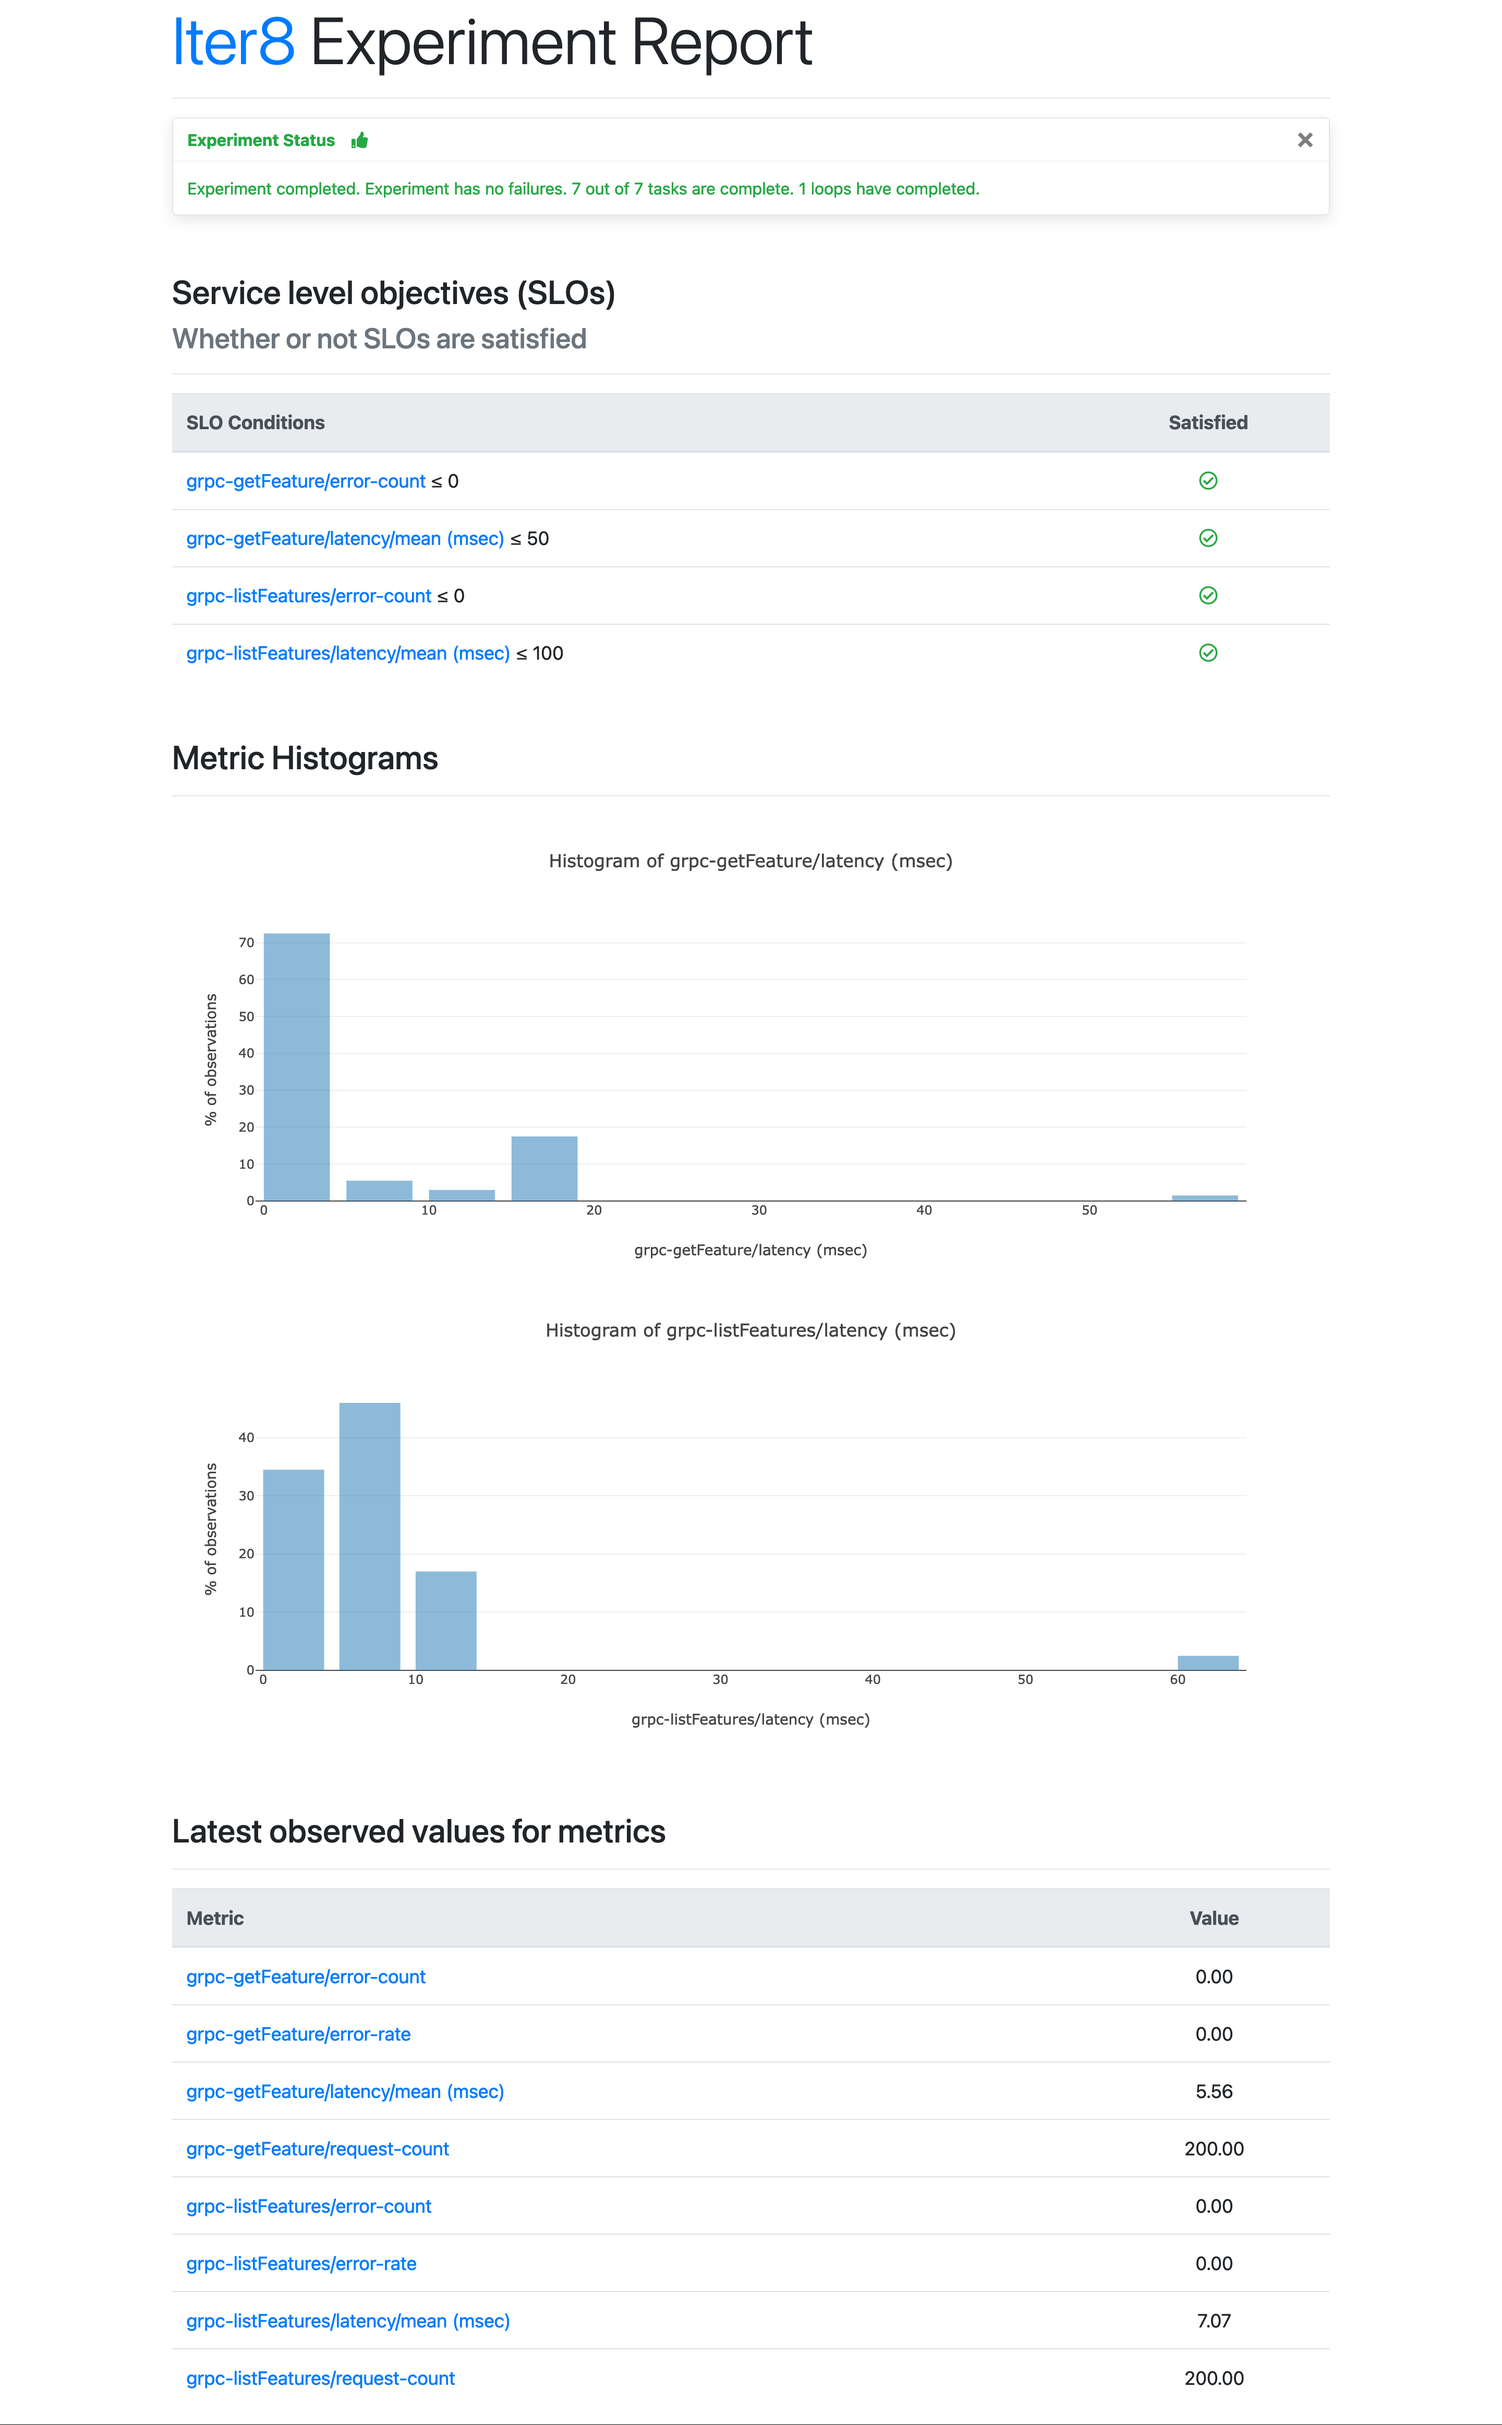
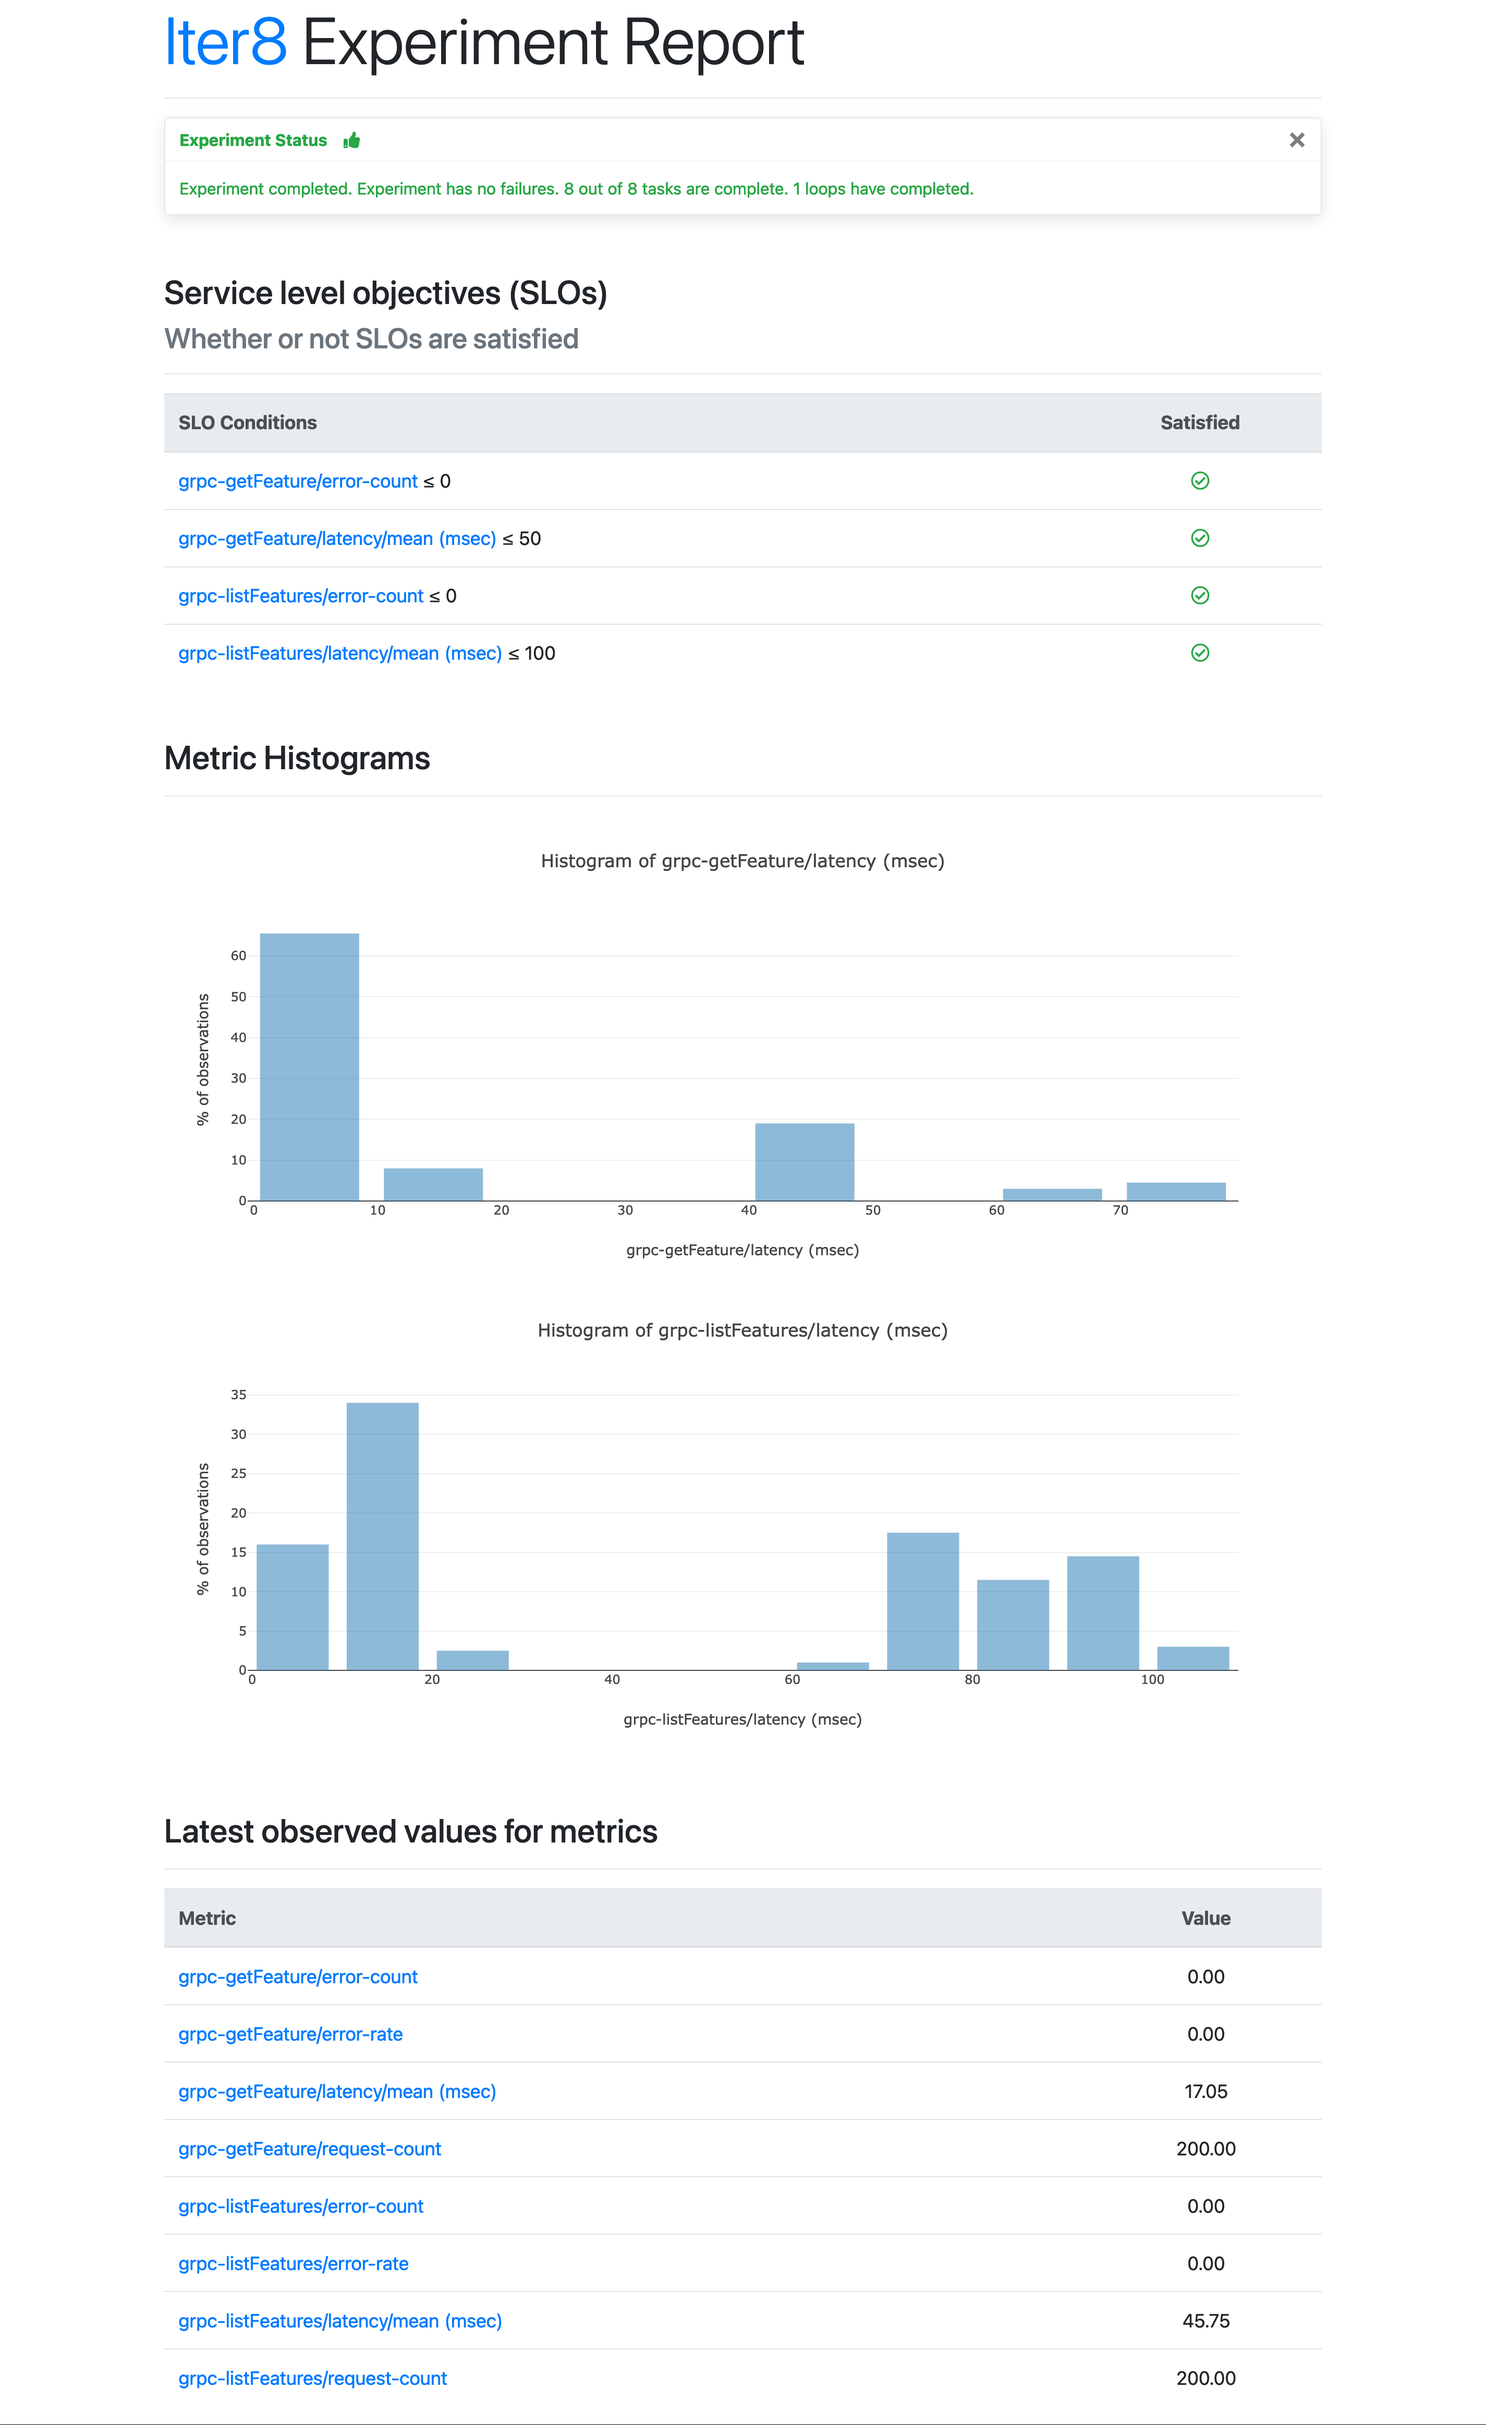
Update after fixing grpc

diff --git a/README.md b/README.md
@@ -64,7 +64,7 @@ helm install autox autox --repo https://iter8-tools.github.io/hub/ --version 0.1
 --set groups.httpbin.specs.iter8.values.ready.service=httpbin \
 --set groups.httpbin.specs.iter8.values.ready.timeout=60s \
 --set groups.httpbin.specs.iter8.values.http.numRequests=200 \
---set groups.httpbin.specs.iter8.values.http.warmupDuration=5s \
+--set groups.httpbin.specs.iter8.values.http.warmupNumRequests=50 \
 --set groups.httpbin.specs.iter8.values.http.endpoints.get.url=http://httpbin.default/get \
 --set groups.httpbin.specs.iter8.values.http.endpoints.getAnything.url=http://httpbin.default/anything \
 --set groups.httpbin.specs.iter8.values.http.endpoints.post.url=http://httpbin.default/post \
@@ -75,7 +75,7 @@ helm install autox autox --repo https://iter8-tools.github.io/hub/ --version 0.1
 --set groups.httpbin.specs.iter8.values.assess.SLOs.upper.http-getAnything/latency-mean=75 \
 --set groups.httpbin.specs.iter8.values.assess.SLOs.upper.http-post/error-count=0 \
 --set groups.httpbin.specs.iter8.values.assess.SLOs.upper.http-post/latency-mean=100 \
---set groups.httpbin.specs.iter8.version=0.13.4 \
+--set groups.httpbin.specs.iter8.version=0.13.5 \
 --set groups.httpbin.specs.iter8.values.runner=job
 ```
 
@@ -143,42 +143,42 @@ Latest observed values for metrics:
   -------                                | -----
   http-get/error-count                   | 0.00
   http-get/error-rate                    | 0.00
-  http-get/latency-max (msec)            | 67.72
-  http-get/latency-mean (msec)           | 7.10
-  http-get/latency-min (msec)            | 1.34
-  http-get/latency-p50 (msec)            | 5.94
-  http-get/latency-p75 (msec)            | 8.47
-  http-get/latency-p90 (msec)            | 11.10
-  http-get/latency-p95 (msec)            | 12.67
-  http-get/latency-p99 (msec)            | 62.57
-  http-get/latency-p99.9 (msec)          | 67.20
-  http-get/latency-stddev (msec)         | 7.68
+  http-get/latency-max (msec)            | 20.67
+  http-get/latency-mean (msec)           | 5.65
+  http-get/latency-min (msec)            | 1.23
+  http-get/latency-p50 (msec)            | 4.85
+  http-get/latency-p75 (msec)            | 7.40
+  http-get/latency-p90 (msec)            | 10.12
+  http-get/latency-p95 (msec)            | 12.40
+  http-get/latency-p99 (msec)            | 19.00
+  http-get/latency-p99.9 (msec)          | 20.53
+  http-get/latency-stddev (msec)         | 3.47
   http-get/request-count                 | 200.00
   http-getAnything/error-count           | 0.00
   http-getAnything/error-rate            | 0.00
-  http-getAnything/latency-max (msec)    | 20.73
-  http-getAnything/latency-mean (msec)   | 5.90
-  http-getAnything/latency-min (msec)    | 1.29
-  http-getAnything/latency-p50 (msec)    | 5.52
-  http-getAnything/latency-p75 (msec)    | 7.94
-  http-getAnything/latency-p90 (msec)    | 9.93
-  http-getAnything/latency-p95 (msec)    | 11.38
-  http-getAnything/latency-p99 (msec)    | 14.00
-  http-getAnything/latency-p99.9 (msec)  | 20.58
-  http-getAnything/latency-stddev (msec) | 3.08
+  http-getAnything/latency-max (msec)    | 71.20
+  http-getAnything/latency-mean (msec)   | 7.09
+  http-getAnything/latency-min (msec)    | 1.23
+  http-getAnything/latency-p50 (msec)    | 5.10
+  http-getAnything/latency-p75 (msec)    | 7.56
+  http-getAnything/latency-p90 (msec)    | 11.50
+  http-getAnything/latency-p95 (msec)    | 18.00
+  http-getAnything/latency-p99 (msec)    | 70.00
+  http-getAnything/latency-p99.9 (msec)  | 71.08
+  http-getAnything/latency-stddev (msec) | 8.88
   http-getAnything/request-count         | 200.00
   http-post/error-count                  | 0.00
   http-post/error-rate                   | 0.00
-  http-post/latency-max (msec)           | 69.14
-  http-post/latency-mean (msec)          | 6.32
-  http-post/latency-min (msec)           | 1.32
-  http-post/latency-p50 (msec)           | 5.14
-  http-post/latency-p75 (msec)           | 7.53
-  http-post/latency-p90 (msec)           | 10.33
-  http-post/latency-p95 (msec)           | 12.22
-  http-post/latency-p99 (msec)           | 14.00
-  http-post/latency-p99.9 (msec)         | 68.23
-  http-post/latency-stddev (msec)        | 6.89
+  http-post/latency-max (msec)           | 75.67
+  http-post/latency-mean (msec)          | 6.02
+  http-post/latency-min (msec)           | 1.36
+  http-post/latency-p50 (msec)           | 4.78
+  http-post/latency-p75 (msec)           | 7.10
+  http-post/latency-p90 (msec)           | 10.00
+  http-post/latency-p95 (msec)           | 11.33
+  http-post/latency-p99 (msec)           | 16.00
+  http-post/latency-p99.9 (msec)         | 75.10
+  http-post/latency-stddev (msec)        | 7.54
   http-post/request-count                | 200.00 -->
 
 You can also produce an HTML report that you can view in the browser.
@@ -258,7 +258,7 @@ helm install autox autox --repo https://iter8-tools.github.io/hub/ --version 0.1
 --set groups.routeguide.specs.iter8.values.ready.timeout=60s \
 --set groups.routeguide.specs.iter8.values.grpc.host=routeguide.default:50051 \
 --set groups.routeguide.specs.iter8.values.grpc.protoURL=https://raw.githubusercontent.com/iter8-tools/docs/v0.13.13/samples/route_guide/routeguide/route_guide.proto \
---set groups.routeguide.specs.iter8.values.grpc.warmupDuration=5s \
+--set groups.routeguide.specs.iter8.values.grpc.warmupNumRequests=50 \
 --set groups.routeguide.specs.iter8.values.grpc.endpoints.getFeature.call=routeguide.RouteGuide.GetFeature \
 --set groups.routeguide.specs.iter8.values.grpc.endpoints.getFeature.dataURL=https://raw.githubusercontent.com/iter8-tools/docs/v0.13.13/samples/grpc-payload/unary.json \
 --set groups.routeguide.specs.iter8.values.grpc.endpoints.listFeatures.call=routeguide.RouteGuide.ListFeatures \
@@ -267,7 +267,7 @@ helm install autox autox --repo https://iter8-tools.github.io/hub/ --version 0.1
 --set groups.routeguide.specs.iter8.values.assess.SLOs.upper.grpc-getFeature/latency/mean=50 \
 --set groups.routeguide.specs.iter8.values.assess.SLOs.upper.grpc-listFeatures/error-count=0 \
 --set groups.routeguide.specs.iter8.values.assess.SLOs.upper.grpc-listFeatures/latency/mean=100 \
---set groups.routeguide.specs.iter8.version=0.13.4 \
+--set groups.routeguide.specs.iter8.version=0.13.5 \
 --set groups.routeguide.specs.iter8.values.runner=job
 ```
 
@@ -309,8 +309,8 @@ iter8 k report -g autox-routeguide-iter8
 
   Experiment completed: true
   No task failures: true
-  Total number of tasks: 7
-  Number of completed tasks: 7
+  Total number of tasks: 8
+  Number of completed tasks: 8
   Number of completed loops: 1
 
 Whether or not service level objectives (SLOs) are satisfied:
@@ -331,11 +331,11 @@ Latest observed values for metrics:
   -------                               | -----
   grpc-getFeature/error-count           | 0.00
   grpc-getFeature/error-rate            | 0.00
-  grpc-getFeature/latency/mean (msec)   | 5.56
+  grpc-getFeature/latency/mean (msec)   | 17.05
   grpc-getFeature/request-count         | 200.00
   grpc-listFeatures/error-count         | 0.00
   grpc-listFeatures/error-rate          | 0.00
-  grpc-listFeatures/latency/mean (msec) | 7.07
+  grpc-listFeatures/latency/mean (msec) | 45.75
   grpc-listFeatures/request-count       | 200.00 -->
 
 You can also produce an HTML report that you can view in the browser.
